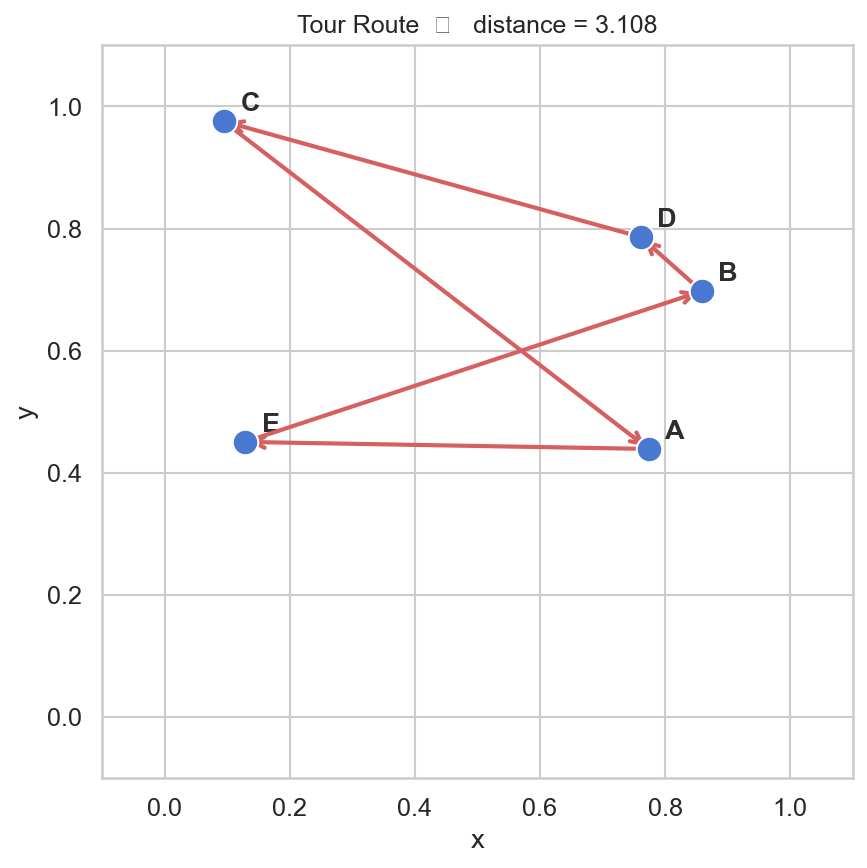
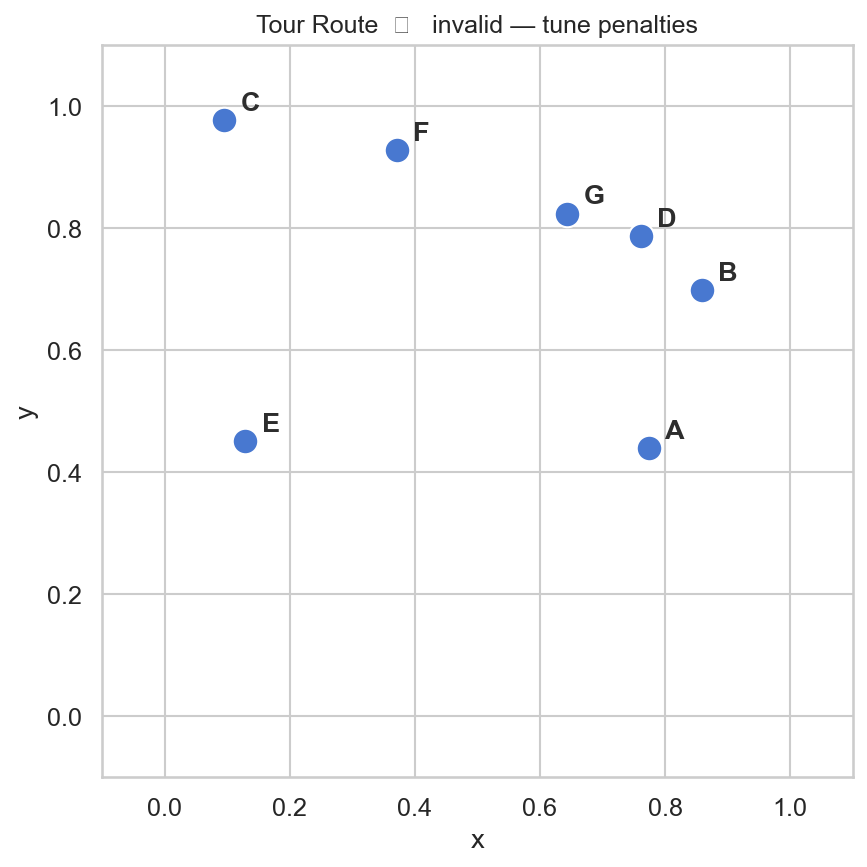
additional test

diff --git a/experiment.py b/experiment.py
@@ -1,0 +1,211 @@
+import os 
+import numpy as np
+import matplotlib.pyplot as plt
+import seaborn as sns 
+
+from src.cities import generate_cities
+from src.network import run_hopfield, compute_energy
+from src.analysis import is_valid_tour
+
+sns.set_theme(style="whitegrid", palette="muted", font_scale=1.1)
+os.makedirs("plots", exist_ok=True)
+
+#---------------------PENALTY SWEEP HEATMAP---------------------#
+def experiment_penalty_sweep(
+    num_cities          = 6,
+    num_trials          = 15, 
+    row_values          = None,
+    dist_values         = None,
+    penalty_col         = 500,
+    penalty_toursize    = 500,
+    step_size           = 0.001,
+    time_const          = 1.0, 
+    max_iter            = 20000,
+):
+    """
+    Grid search over PENALY_ROW vs PENALTY_DISTANCE
+    constraint strength vs distance optimiasation
+    """
+    if row_values is None: row_values = [200, 400, 600, 800, 1000]
+    if dist_values is None: dist_values = [50, 100, 200, 400, 600]
+
+    _, distance_matrix = generate_cities(num_cities, random_seed=0)
+
+    print(f"\nExperiment 1 — penalty sweep  "
+          f"({len(row_values)}x{len(dist_values)} grid, {num_trials} trials per cell)")
+
+    grid = np.zeros((len(dist_values), len(row_values)))
+
+    for ri, p_row in enumerate(row_values):
+        for di, p_dist in enumerate(dist_values):
+            successes = sum(
+                1 for seed in range(num_trials)
+                if is_valid_tour(
+                    run_hopfield(num_cities, distance_matrix, seed, p_row, penalty_col, p_dist, penalty_toursize, step_size, time_const, max_iter)[0],
+                    num_cities
+                )[0]
+            )
+            grid[di, ri] = successes / num_trials
+            print(f"  row={p_row:5d}  dist={p_dist:5d}  ->  {100*grid[di,ri]:.0f}%")
+        
+        fig, ax = plt.subplots(figsize=(8, 6))
+        im = ax.imshow(grid, origin="upper", aspect="auto",
+                    vmin=0, vmax=1, cmap="RdYlGn", interpolation="nearest")
+        ax.set_xticks(range(len(row_values)));   ax.set_xticklabels(row_values)
+        ax.set_yticks(range(len(dist_values)));  ax.set_yticklabels(dist_values)
+        ax.set_xlabel("PENALTY_ROW  (constraint strength A)")
+        ax.set_ylabel("PENALTY_DISTANCE  (distance optimisation C)")
+        ax.set_title(
+            f"Experiment 1 — Valid tour rate  (N={num_cities}, {num_trials} trials per cell)\n"
+            "Green = valid tours found   |   Red = constraints violated",
+            fontsize=11,
+        )
+        for ri in range(len(row_values)):
+            for di in range(len(dist_values)):
+                v  = grid[di, ri]
+                tc = "white" if v < 0.25 or v > 0.75 else "black"
+                ax.text(ri, di, f"{v:.0%}", ha="center", va="center",
+                        fontsize=9, color=tc, fontweight="bold")
+    cbar = fig.colorbar(im, ax=ax, fraction=0.046, pad=0.04)
+    cbar.set_label("Valid tour rate")
+    path = "plots/exp1_penalty_sweep.png"
+    fig.tight_layout()
+    fig.savefig(path, dpi=150, bbox_inches="tight")
+    plt.close(fig)
+    print(f"  Saved: {path}")
+    return grid
+
+#-----------------------SCALE VS SUCCESS RATE-----------------------#
+def experiment_scale_vs_success(
+    city_sizes       = None,
+    num_trials       = 20,
+    penalty_row      = 500,
+    penalty_col      = 500,
+    penalty_distance = 100,
+    penalty_toursize = 500,
+    step_size        = 0.001,
+    time_const       = 1.0,
+    max_iter         = 20000,
+):
+    if city_sizes is None:
+        city_sizes = [4, 5, 6, 7, 8, 10, 12, 15]
+ 
+    print(f"\nExperiment 2 — scale vs success  "
+          f"(N = {city_sizes}, {num_trials} trials each)")
+ 
+    rates = []
+    for N in city_sizes:
+        _, distance_matrix = generate_cities(N, random_seed=0)
+        successes = sum(
+            1 for seed in range(num_trials)
+            if is_valid_tour(
+                run_hopfield(N, distance_matrix, seed,
+                             penalty_row, penalty_col, penalty_distance, penalty_toursize,
+                             step_size, time_const, max_iter)[0],
+                N
+            )[0]
+        )
+        rate = successes / num_trials
+        rates.append(rate)
+        print(f"  N={N:3d}  ->  {successes}/{num_trials}  ({100*rate:.0f}%)")
+ 
+    fig, ax = plt.subplots(figsize=(7, 4))
+    palette = sns.color_palette("muted")
+    sns.lineplot(x=city_sizes, y=rates, marker="o",
+                 color=palette[0], linewidth=2, markersize=7, ax=ax)
+    for x, y in zip(city_sizes, rates):
+        ax.annotate(f"{y:.0%}", (x, y),
+                    textcoords="offset points", xytext=(0, 10),
+                    ha="center", fontsize=9, color="#555")
+    ax.axhline(0.5, color=palette[3], linestyle="--", alpha=0.7,
+               label="50% threshold")
+    ax.set_xlabel("Number of cities  N")
+    ax.set_ylabel("Valid tour rate")
+    ax.set_ylim(-0.05, 1.15)
+    ax.set_xticks(city_sizes)
+    ax.set_title(
+        f"Experiment 2 — Valid tour rate vs problem size  ({num_trials} trials per N)\n"
+        "Classic Hopfield capacity limit: performance collapses around N > 8",
+        fontsize=11,
+    )
+    ax.legend()
+    path = "plots/exp2_scale_vs_success.png"
+    fig.tight_layout()
+    fig.savefig(path, dpi=150, bbox_inches="tight")
+    plt.close(fig)
+    print(f"  Saved: {path}")
+    return city_sizes, rates
+
+#--------------------LOCAL MINIMA DEMONSTRATION--------------------#
+def experiment_local_minima(
+    num_cities       = 6,
+    num_trials       = 50,
+    penalty_row      = 500,
+    penalty_col      = 500,
+    penalty_distance = 100,
+    penalty_toursize = 500,
+    step_size        = 0.001,
+    time_const       = 1.0,
+    max_iter         = 20000,
+):
+    print(f"\nExperiment 3 — local minima  (N={num_cities}, {num_trials} trials)")
+ 
+    _, distance_matrix = generate_cities(num_cities, random_seed=0)
+ 
+    valid_energies   = []
+    invalid_energies = []
+ 
+    for seed in range(num_trials):
+        act, _ = run_hopfield(
+            num_cities, distance_matrix, seed,
+            penalty_row, penalty_col, penalty_distance, penalty_toursize,
+            step_size, time_const, max_iter,
+        )
+        E = compute_energy(act, distance_matrix, num_cities,
+                           penalty_row, penalty_col, penalty_distance, penalty_toursize)
+        valid, _ = is_valid_tour(act, num_cities)
+        (valid_energies if valid else invalid_energies).append(E)
+ 
+    n_valid   = len(valid_energies)
+    n_invalid = len(invalid_energies)
+    print(f"  Valid:   {n_valid}/{num_trials}  ({100*n_valid//num_trials}%)")
+    print(f"  Invalid: {n_invalid}/{num_trials}  ({100*n_invalid//num_trials}%)")
+ 
+    fig, ax = plt.subplots(figsize=(7, 4))
+    palette = sns.color_palette("muted")
+    all_e = valid_energies + invalid_energies
+    bins  = np.linspace(min(all_e) * 0.85, max(all_e) * 1.05, 22)
+    if valid_energies:
+        ax.hist(valid_energies, bins=bins, alpha=0.75,
+                color=palette[2], label=f"Valid tour  (n={n_valid})",
+                edgecolor="white", linewidth=0.5)
+    if invalid_energies:
+        ax.hist(invalid_energies, bins=bins, alpha=0.65,
+                color=palette[3], label=f"Stuck in local minimum  (n={n_invalid})",
+                edgecolor="white", linewidth=0.5)
+    ax.set_xlabel("Final energy  E  at convergence")
+    ax.set_ylabel("Count")
+    ax.set_title(
+        f"Experiment 3 — Energy at convergence: valid tours vs local minima\n"
+        f"(N={num_cities}, {num_trials} random seeds, same hyperparameters)",
+        fontsize=11,
+    )
+    ax.legend()
+    path = "plots/exp3_local_minima.png"
+    fig.tight_layout()
+    fig.savefig(path, dpi=150, bbox_inches="tight")
+    plt.close(fig)
+    print(f"  Saved: {path}")
+    return valid_energies, invalid_energies
+
+if __name__ == "__main__":
+    print("=" * 60)
+    print("Hopfield TSP — experiments")
+    print("=" * 60)
+    experiment_penalty_sweep()
+    experiment_scale_vs_success()
+    experiment_local_minima()
+    print("\nAll done. Check plots/ for outputs:")
+    print("  exp1_penalty_sweep.png")
+    print("  exp2_scale_vs_success.png")
+    print("  exp3_local_minima.png")

diff --git a/src/generate_plots.py b/src/generate_plots.py
@@ -48,9 +48,9 @@ def plot_tour(coordinates, tour, tour_distance, num_cities, valid, save_dir="plo
                     lw=2
                 )
             )
-        ax.set_title(f"Tour Route  ✓   distance = {tour_distance:.3f}", fontsize=12)
+        ax.set_title(f"Tour Route success distance = {tour_distance:.3f}", fontsize=12)
     else:
-        ax.set_title("Tour Route  ✗   invalid — tune penalties", fontsize=12)
+        ax.set_title("Tour Route invalid — tune penalties", fontsize=12)
  
     ax.set_xlim(-0.1, 1.1)
     ax.set_ylim(-0.1, 1.1)

diff --git a/config.py b/config.py
@@ -2,7 +2,7 @@
 Hyperparameters
 """
 
-NUM_CITIES = 100
+NUM_CITIES = 7
 
 PENALTY_ROW = 500
 PENALTY_COL = 500
